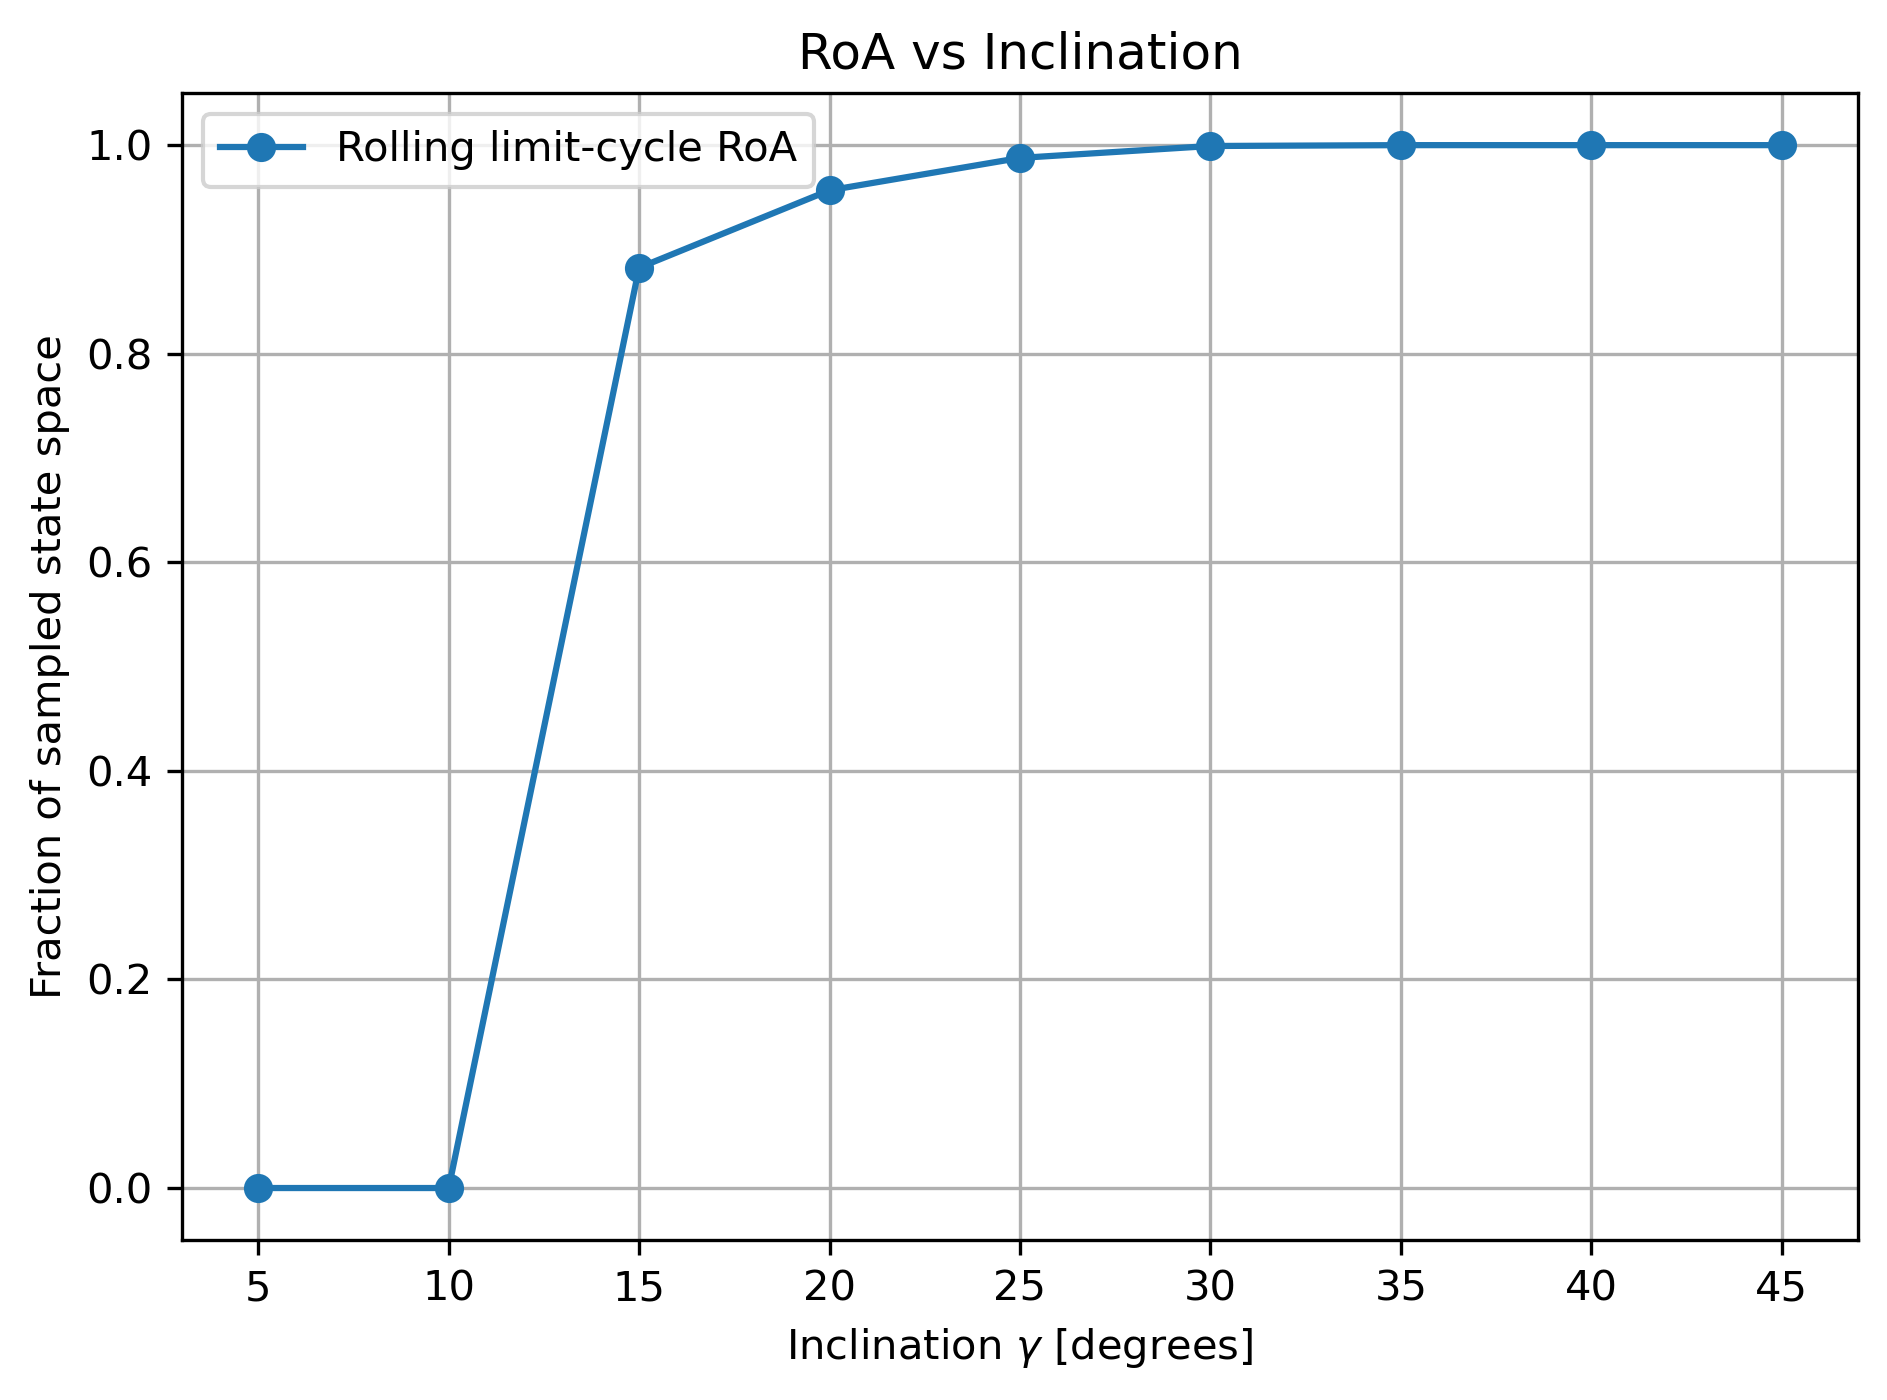
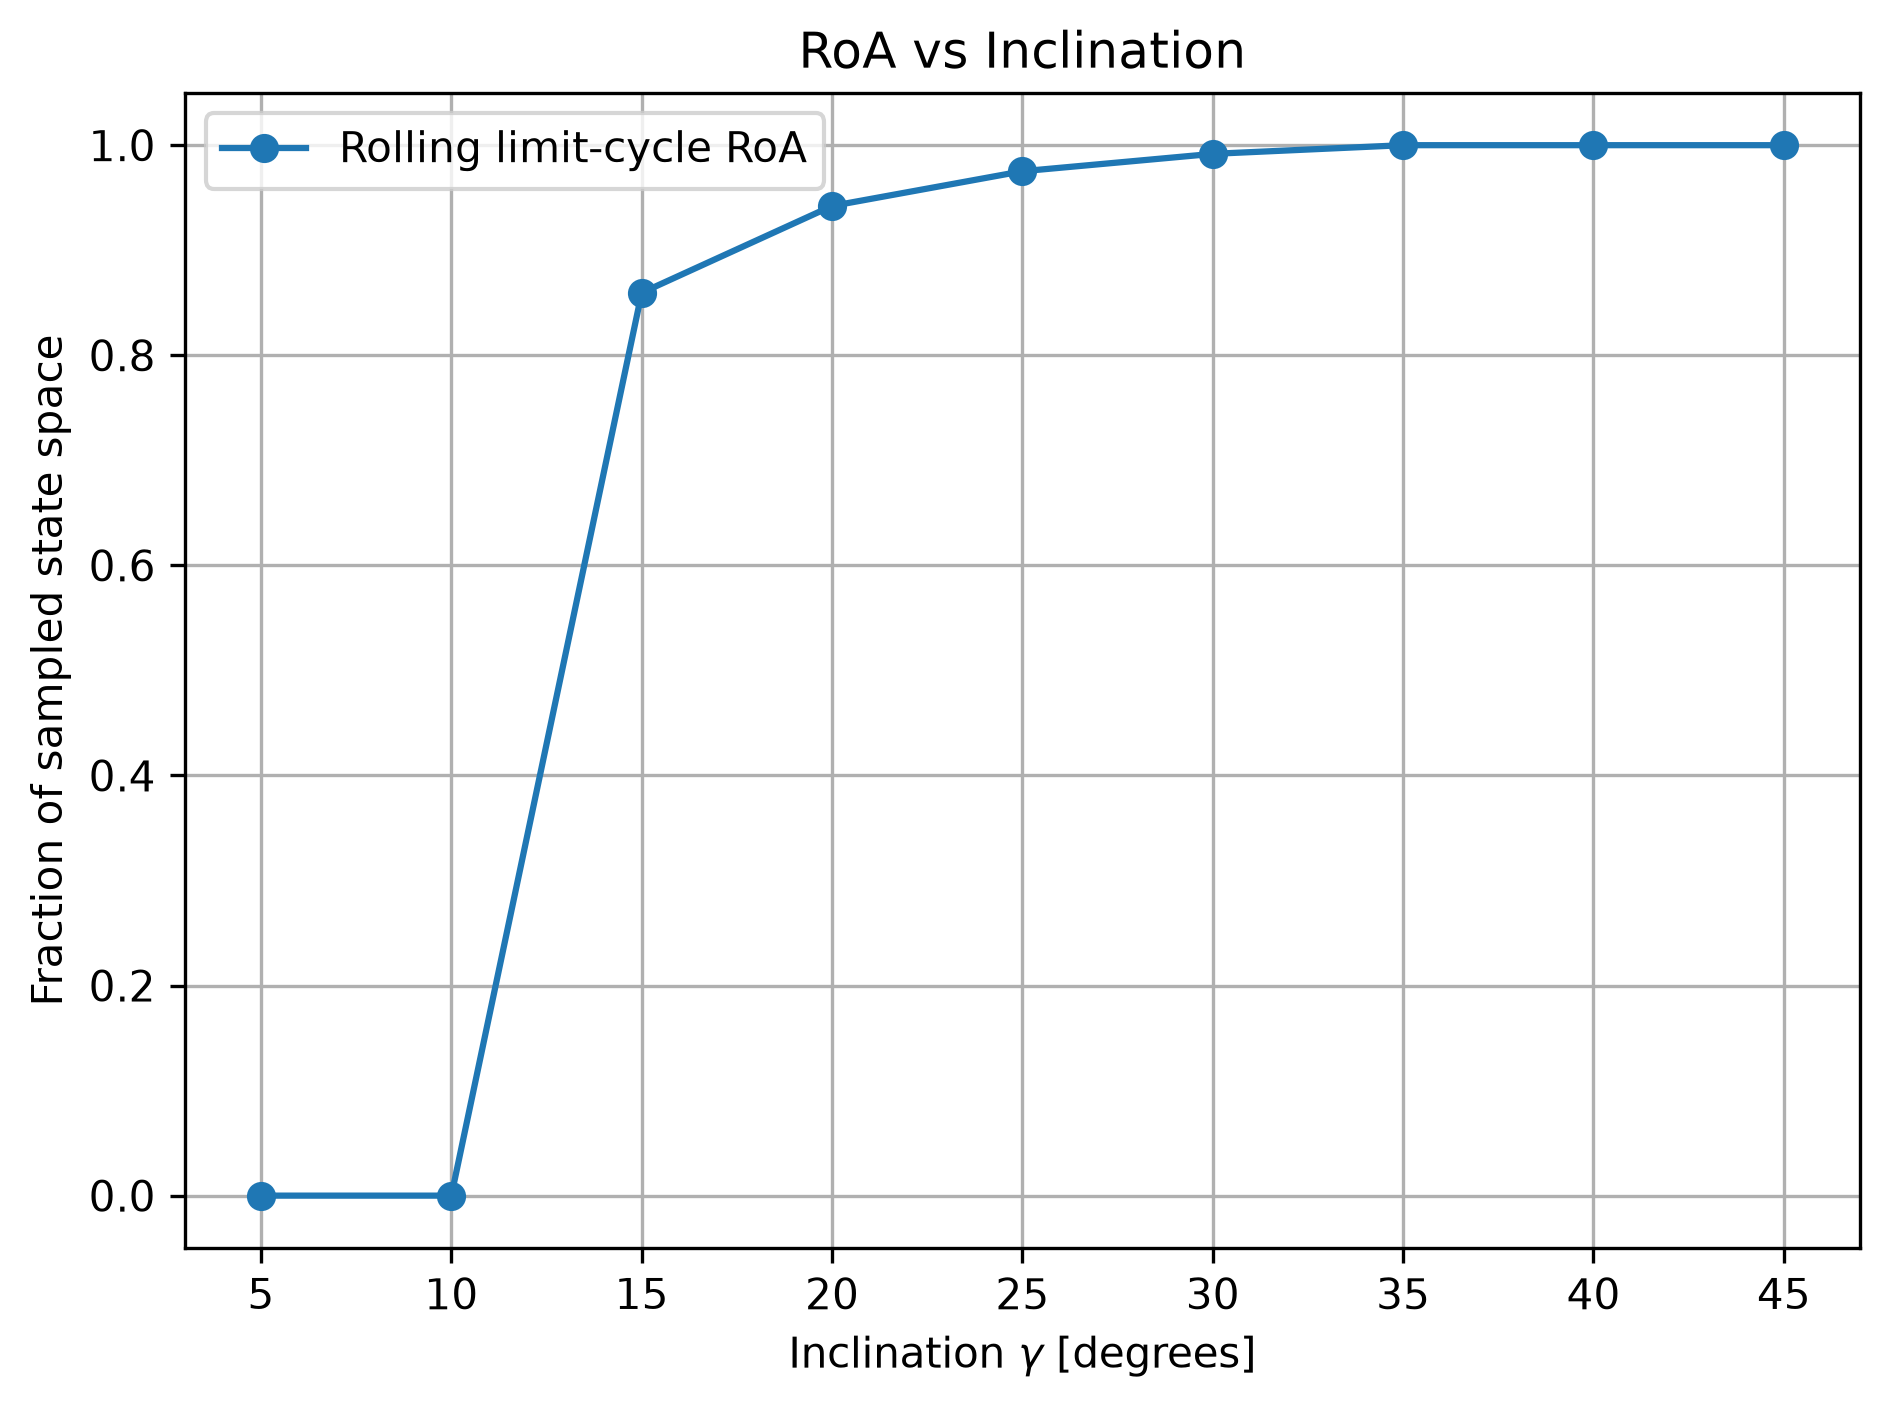
Updates graphs, changes timestep

diff --git a/wheel_integrator.py b/wheel_integrator.py
@@ -1,59 +1,104 @@
-import numpy as np
+import numpy as np 
+ 
+#from the wikipedia, h is the step, then there are four stages (four orders, maybe) 
 
-#from the wikipedia, h i sthe step, then there are four stages (four orders, maybe)
-def rk4(dynamics, is_touching, reset_params, initial_state, timestep, sim_time, params, num_contacts=None): 
-    n_timesteps = int(sim_time / timestep) + 1
+# RK4 INTEGRATOR 
+def rk4(dynamics, is_touching, reset_params, initial_state, timestep, time_step_upper_bound, sim_time, params, num_contacts=None, theta_contact=None, theta_tolerance=0.05): 
+ 
+    # INITIALIZE TRAJECTORIES 
+    # These are lists because the timestep can change during the simulation 
+    time_traj = [0.0] 
+    state_traj = [np.array(initial_state, dtype=float)] 
+ 
+    contact_counter = 0 
+    theta_dot_pos = [] 
+    contact_indices = [] 
+    pre_impact_states = [] 
+    post_impact_states = [] 
+ 
+    t = 0.0 
+ 
+    while t < sim_time: 
+ 
+        current_state = state_traj[-1]
+        
+        # DETERMINE THE APPROPRIATE TIMESTEP 
+        if theta_contact is not None: 
+ 
+            # Distance from the current leg angle to the contact angle 
+            theta_distance = abs(theta_contact - current_state[0]) 
+ 
+            # Use the smaller timestep when approaching contact 
+            if theta_distance <= theta_tolerance and current_state[1] > 0: 
+                current_timestep = timestep 
+ 
+            # Otherwise use the larger timestep to speed up simulation 
+            else: 
+                current_timestep = time_step_upper_bound 
+ 
+        else: 
+            # If no contact angle is provided, always use the normal timestep 
+            current_timestep = timestep 
+ 
+        # DO NOT STEP PAST THE END OF THE SIMULATION 
+        current_timestep = min(current_timestep, sim_time - t) 
+ 
+        # RK4 CALCULATION 
+        k1 = dynamics(t, current_state, params) 
+        k2 = dynamics(t + current_timestep / 2, current_state + k1 * current_timestep / 2, params) 
+        k3 = dynamics(t + current_timestep / 2, current_state + k2 * current_timestep / 2, params) 
+        k4 = dynamics(t + current_timestep, current_state + k3 * current_timestep, params) 
+        new_state = (current_state + current_timestep / 6 * (k1 + 2*k2 + 2*k3 + k4)) 
+ 
+        # IMPACT DETECTION 
+        if is_touching(new_state, params): 
+            pre_impact_state = new_state.copy() 
+            new_state = reset_params(new_state, params) 
+ 
+            post_impact_state = new_state.copy() 
+            contact_counter += 1 
+            theta_dot_pos.append(new_state[1]) 
+ 
+            # Index of the new state in the trajectory 
+            contact_indices.append(len(state_traj)) 
+            pre_impact_states.append(pre_impact_state) 
+            post_impact_states.append(post_impact_state) 
+ 
+        # SAVE NEW STATE 
+        t += current_timestep 
+        time_traj.append(t) 
+        state_traj.append(new_state) 
+ 
+        # CHECK NUMBER OF CONTACTS 
+        if num_contacts is not None: 
+ 
+            if contact_counter >= num_contacts: 
+                return (np.array(time_traj), np.array(state_traj), theta_dot_pos, contact_indices, pre_impact_states, post_impact_states) 
+ 
+    # RETURN RESULTS 
+    return (np.array(time_traj), np.array(state_traj), theta_dot_pos, contact_indices, pre_impact_states, post_impact_states) 
 
-    time_traj = np.arange(n_timesteps) * timestep
 
-    state_traj = np.zeros((2, n_timesteps))
-    state_traj[:, 0] = initial_state
-
-    contact_counter=0
-    theta_dot_pos=[]
-    contact_indices=[]
-    pre_impact_states=[]
-    post_impact_states=[]
-
-
-    for step, t in enumerate(time_traj[:-1]):
-        current_state=state_traj[:,step]
-
-
-        #implemented from the wikipedia article using t as the tn as per the ed discussion and timestep as h
-        k1=dynamics(t,state_traj[:, step], params)
-        k2=dynamics(t+timestep/2,state_traj[:,step]+k1*timestep/2,params)
-        k3=dynamics(t+timestep/2,state_traj[:,step]+k2*timestep/2,params)
-        k4=dynamics(t+timestep,state_traj[:,step]+timestep*k3,params)
-        new_state=(current_state + timestep / 6 * (k1 + 2*k2 + 2*k3 + k4))
-        #state_traj[:, step + 1] = (state_traj[:, step] + timestep / 6 * (k1 + 2*k2 + 2*k3 + k4)) - wrapped up in new_state
-        if (is_touching(new_state,params)):
-            pre_impact_state=new_state.copy()
-            new_state=reset_params(new_state,params)
-            post_impact_state=new_state.copy()
-            contact_counter+=1
-            theta_dot_pos.append(new_state[1])
-            contact_indices.append(step + 1)
-            pre_impact_states.append(pre_impact_state)
-            post_impact_states.append(post_impact_state)
-        state_traj[:,step+1]=new_state
-
-        if num_contacts is not None:
-            if contact_counter>=num_contacts:
-                return time_traj, state_traj, theta_dot_pos, contact_indices,pre_impact_states, post_impact_states
-
-
-    return time_traj, state_traj, theta_dot_pos, contact_indices,pre_impact_states, post_impact_states
-
-def euler(dynamics, initial_state, timestep, sim_time, params):
-    n_timesteps = int(sim_time / timestep) + 1
-
-    time_traj = np.arange(n_timesteps) * timestep
-
-    state_traj = np.zeros((2, n_timesteps))
-    state_traj[:, 0] = initial_state
-
-    for step, t in enumerate(time_traj[:-1]):
-        state_traj[:, step + 1] = state_traj[:, step] + timestep * dynamics(t, state_traj[:, step], params)
-
+# EULER INTEGRATOR 
+def euler(dynamics, initial_state, timestep, sim_time, params): 
+ 
+    n_timesteps = int(sim_time / timestep) + 1 
+ 
+    time_traj = np.arange(n_timesteps) * timestep 
+ 
+    state_traj = np.zeros((2, n_timesteps)) 
+ 
+    state_traj[:, 0] = initial_state 
+ 
+    for step, t in enumerate(time_traj[:-1]): 
+ 
+        state_traj[:, step + 1] = ( 
+            state_traj[:, step] 
+            + timestep * dynamics( 
+                t, 
+                state_traj[:, step], 
+                params 
+            ) 
+        ) 
+ 
     return time_traj, state_traj

diff --git a/assignment_1.py b/assignment_1.py
@@ -23,6 +23,7 @@ sim_time = 20
 num_contacts = 50
 initial_state = np.array([np.pi / 4, 0.0])
 timestep = 0.001 #determined empirically from theta-dot(plus)-theta-dot(minus) for a step to see when it diverges
+timestep_upper_bound = .04159 #for the pendulum, this was the highest timestep that conserved energy - will use this delta t when far from poincare section
 
 # GEOMETRY
 N = params["N"]
@@ -92,7 +93,7 @@ def calculate_limit_cycle(params,timestep, sim_time):
     initial_state = np.array([gamma - alpha, omega_fixed])
 
     # Simulate until the next impact
-    (time_result, state_result, theta_dot_pos, contact_indices, pre_impact_states, post_impact_states) = integrate(model.dynamics, model.is_touching, model.reset_params, initial_state, timestep, sim_time, params, num_contacts=1)
+    (time_result, state_result, theta_dot_pos, contact_indices, pre_impact_states, post_impact_states) = integrate(model.dynamics, model.is_touching, model.reset_params, initial_state, timestep, timestep_upper_bound, sim_time, params, num_contacts=1, theta_tolerance=0.05)
 
     theta_tolerance=.02
     omega_tolerance=.02
@@ -122,7 +123,7 @@ def return_map(omega_initial, params, timestep, sim_time):
     # Start immediately after the impact provides a new state to create return map 
     initial_state = np.array([gamma - alpha, omega_initial])
 
-    (time_result, state_result,theta_dot_pos, contact_indices, pre_impact_states, post_impact_states) = integrate(model.dynamics, model.is_touching, model.reset_params, initial_state, timestep, sim_time, params, num_contacts=1)
+    (time_result, state_result,theta_dot_pos, contact_indices, pre_impact_states, post_impact_states) = integrate(model.dynamics, model.is_touching, model.reset_params, initial_state, timestep, timestep_upper_bound, sim_time, params, num_contacts=1, theta_tolerance=0.05)
 
     if len(theta_dot_pos) == 0:
         return np.nan
@@ -131,7 +132,7 @@ def return_map(omega_initial, params, timestep, sim_time):
     return theta_dot_pos[0]
 
 # RETURN MAP DATA
-def calculate_return_map(params, timestep, sim_time, omega_min=0.1, omega_max=3.5, num_points=100):
+def calculate_return_map(params, timestep, sim_time, omega_min=0.1, omega_max=3.5, num_points=60):
 
     omega_values = np.linspace(omega_min, omega_max, num_points)
 
@@ -170,7 +171,7 @@ def calculate_convergence(params, timestep, sim_time, initial_omega, num_contact
     gamma = params["gamma"]
     alpha = np.pi / N
     initial_state = np.array([gamma - alpha, initial_omega])
-    (time_result, state_result, theta_dot_pos, contact_indices, pre_impact_states, post_impact_states) = integrate(model.dynamics, model.is_touching, model.reset_params, initial_state, timestep, sim_time, params, num_contacts=num_contacts)
+    (time_result, state_result, theta_dot_pos, contact_indices, pre_impact_states, post_impact_states) = integrate(model.dynamics, model.is_touching, model.reset_params, initial_state, timestep, timestep_upper_bound, sim_time, params, num_contacts=num_contacts, theta_tolerance=0.05)
 
     return np.array(theta_dot_pos)
 
@@ -185,15 +186,7 @@ standstill_omega = []
 def classify_initial_condition(initial_state, params, timestep, sim_time, omega_tolerance=0.005):
 
     (time_result, state_result, theta_dot_pos, contact_indices, pre_impact_states, post_impact_states) = integrate(
-        model.dynamics,
-        model.is_touching,
-        model.reset_params,
-        initial_state,
-        timestep,
-        sim_time,
-        params,
-        num_contacts=None
-    )
+model.dynamics, model.is_touching, model.reset_params, initial_state, timestep, timestep_upper_bound, sim_time, params, num_contacts=None, theta_tolerance=0.05)
 
     # Need at least three contacts to determine whether the angular velocity has converged
     if len(theta_dot_pos) < 3:
@@ -296,7 +289,7 @@ def inclination_sweep(params, gamma_values, timestep, sim_time):
 
         alpha = np.pi / N
 
-        theta_values = np.linspace(gamma - alpha, gamma + alpha,35)
+        theta_values = np.linspace(gamma - alpha, gamma + alpha,11)
         omega_fixed = calculate_fixed_point(sweep_params)
         if np.isfinite(omega_fixed):
 
@@ -306,7 +299,7 @@ def inclination_sweep(params, gamma_values, timestep, sim_time):
 
             omega_max = 3.0
 
-        omega_values = np.linspace(0, omega_max, 35)
+        omega_values = np.linspace(0, omega_max, 11)
 
         #calculates region of attraction 
         roa = calculate_roa(sweep_params, timestep, sim_time, theta_values, omega_values)
@@ -341,7 +334,7 @@ def spoke_sweep(params, spoke_values, timestep, sim_time):
         gamma = sweep_params["gamma"]
         alpha = np.pi / N
 
-        theta_values = np.linspace(gamma - alpha, gamma + alpha, 35)
+        theta_values = np.linspace(gamma - alpha, gamma + alpha, 11)
 
         omega_fixed = calculate_fixed_point(sweep_params)
 
@@ -353,7 +346,7 @@ def spoke_sweep(params, spoke_values, timestep, sim_time):
 
             omega_max = 3.0
 
-        omega_values = np.linspace(0, omega_max, 35)
+        omega_values = np.linspace(0, omega_max, 11)
 
         roa = calculate_roa(sweep_params,timestep,sim_time,theta_values, omega_values)
         total_point=len(limit_theta)+len(standstill_theta)
@@ -512,8 +505,8 @@ if __name__ == "__main__":
         plt.show()
 
     # REGION OF ATTRACTION
-    theta_values = np.linspace(gamma - alpha, gamma + alpha, 50)
-    omega_values_roa = np.linspace(-2*np.pi, 2*np.pi, 50)
+    theta_values = np.linspace(gamma - alpha, gamma + alpha, 25)
+    omega_values_roa = np.linspace(-2*np.pi, 2*np.pi, 25)
 
     print("REGION OF ATTRACTION")
     roa = calculate_roa(params, timestep, sim_time, theta_values, omega_values_roa)
